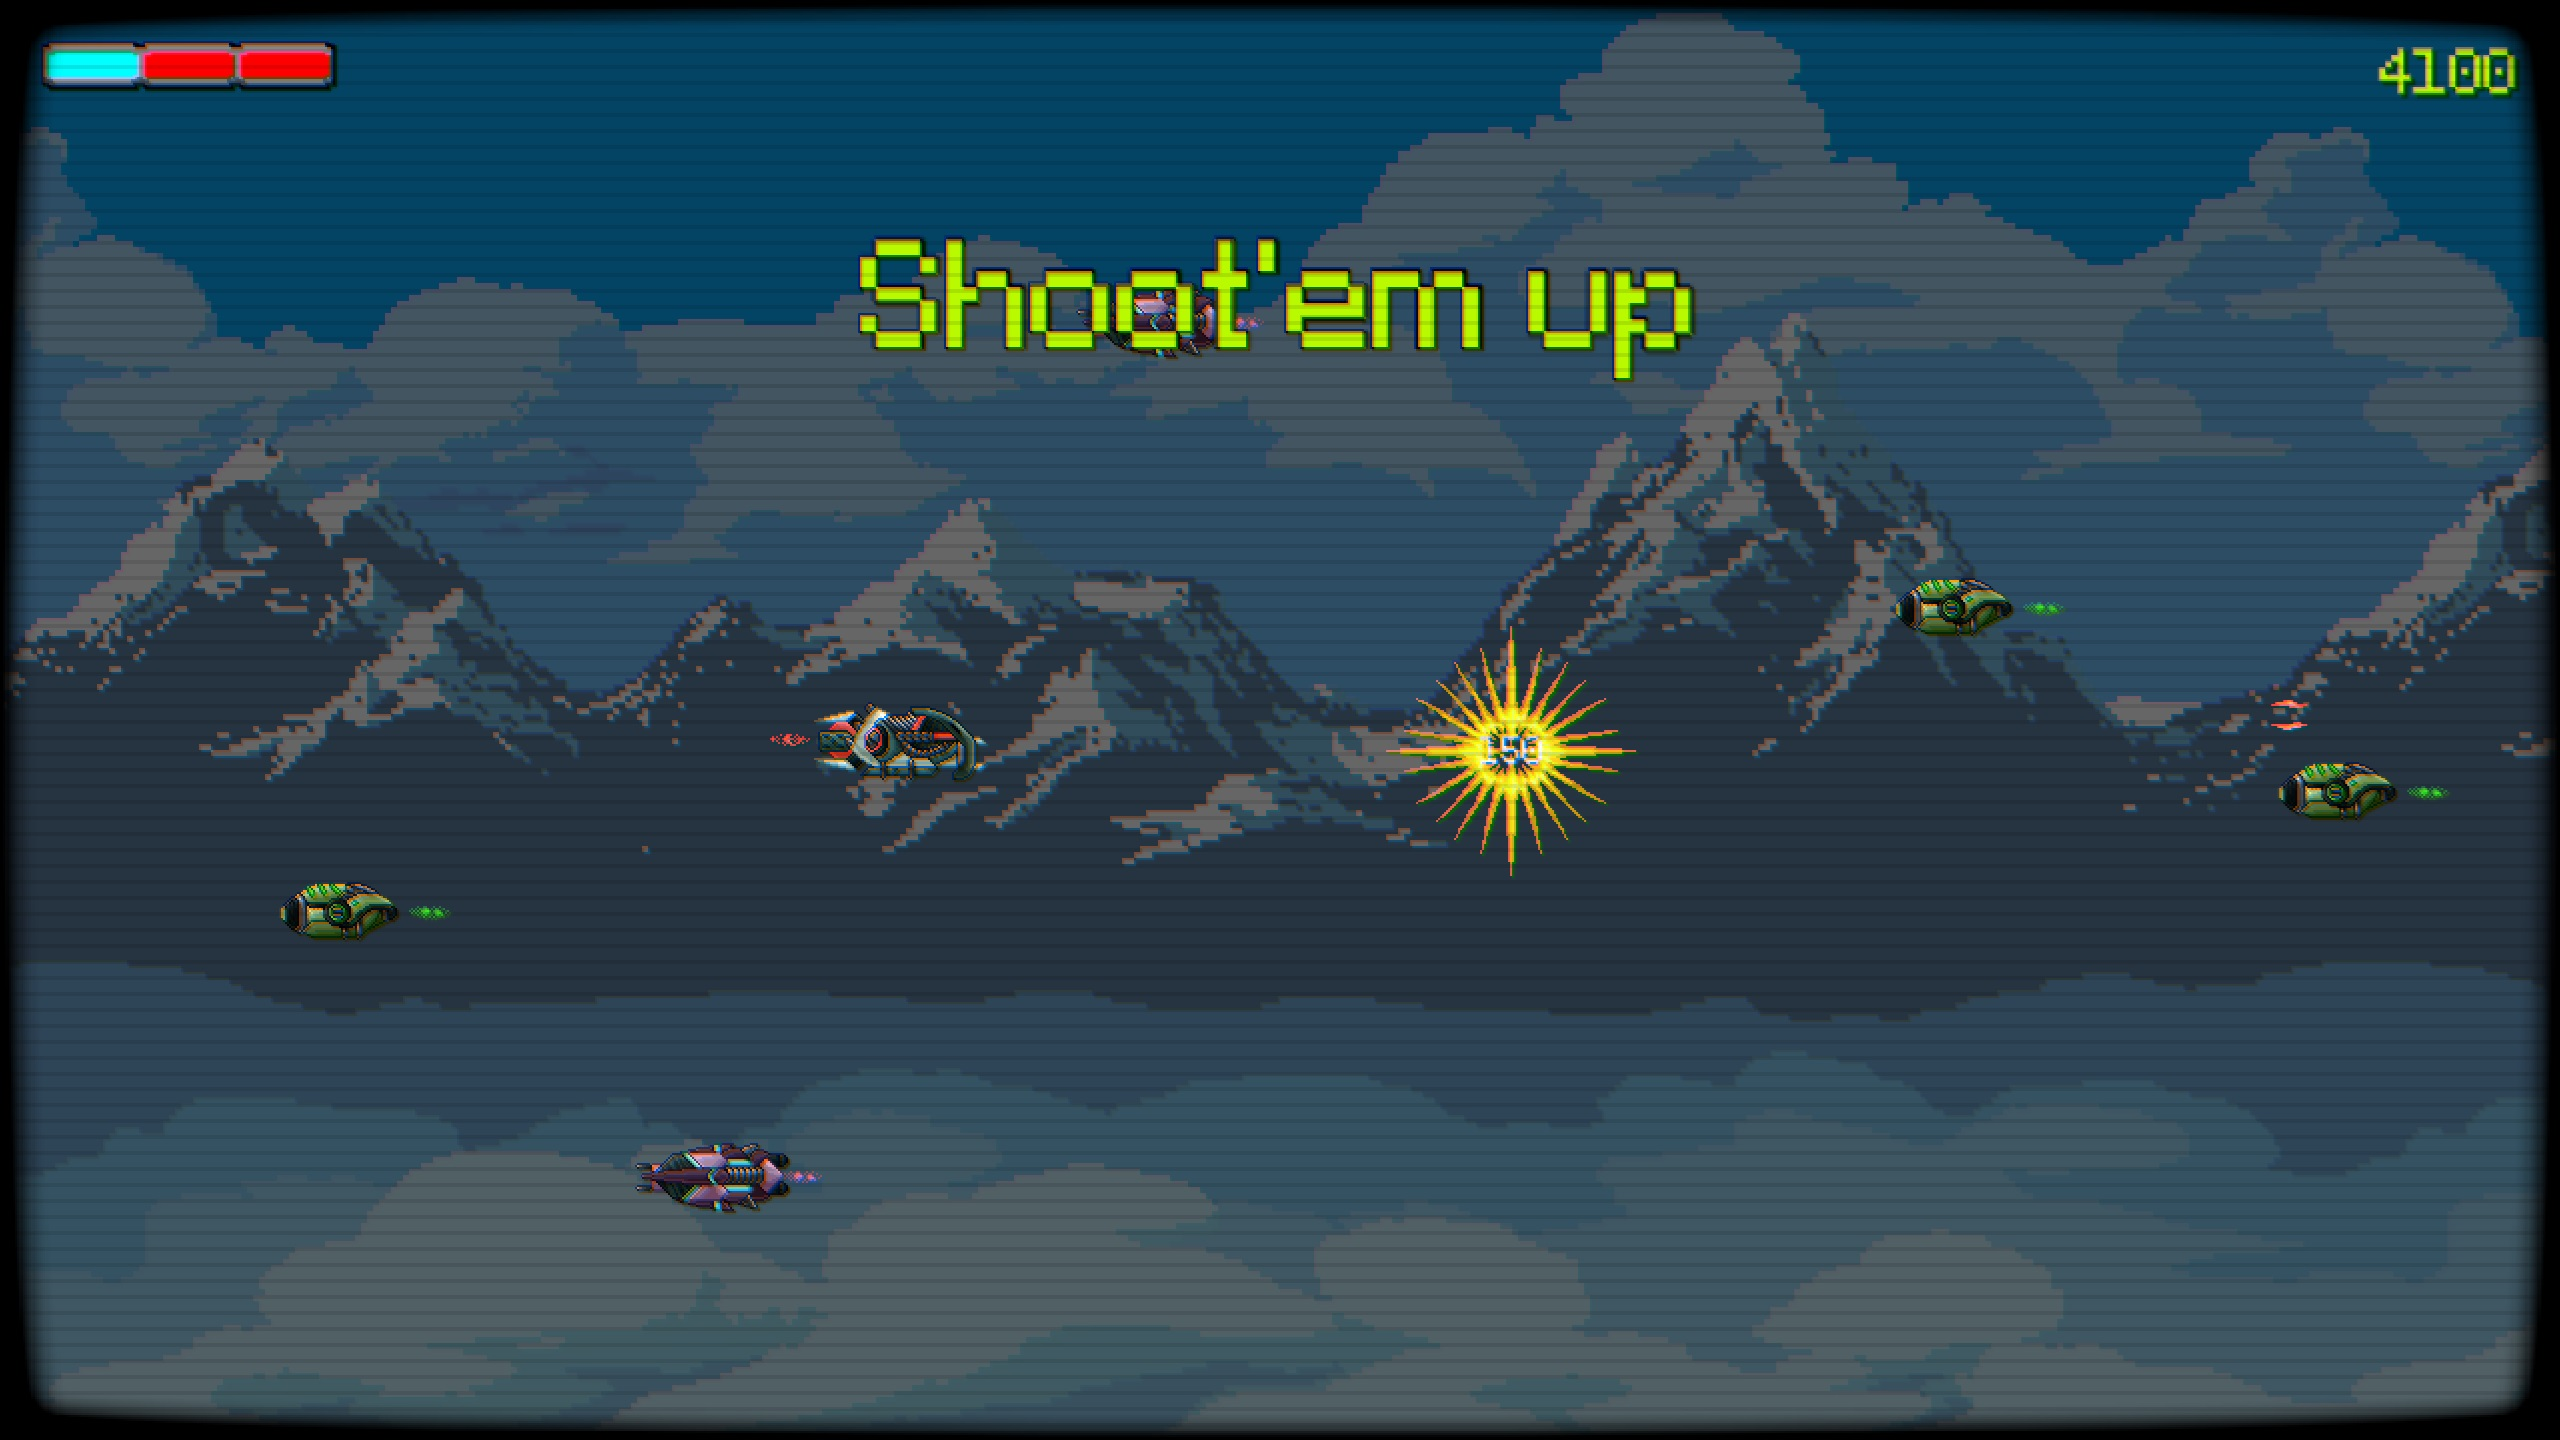
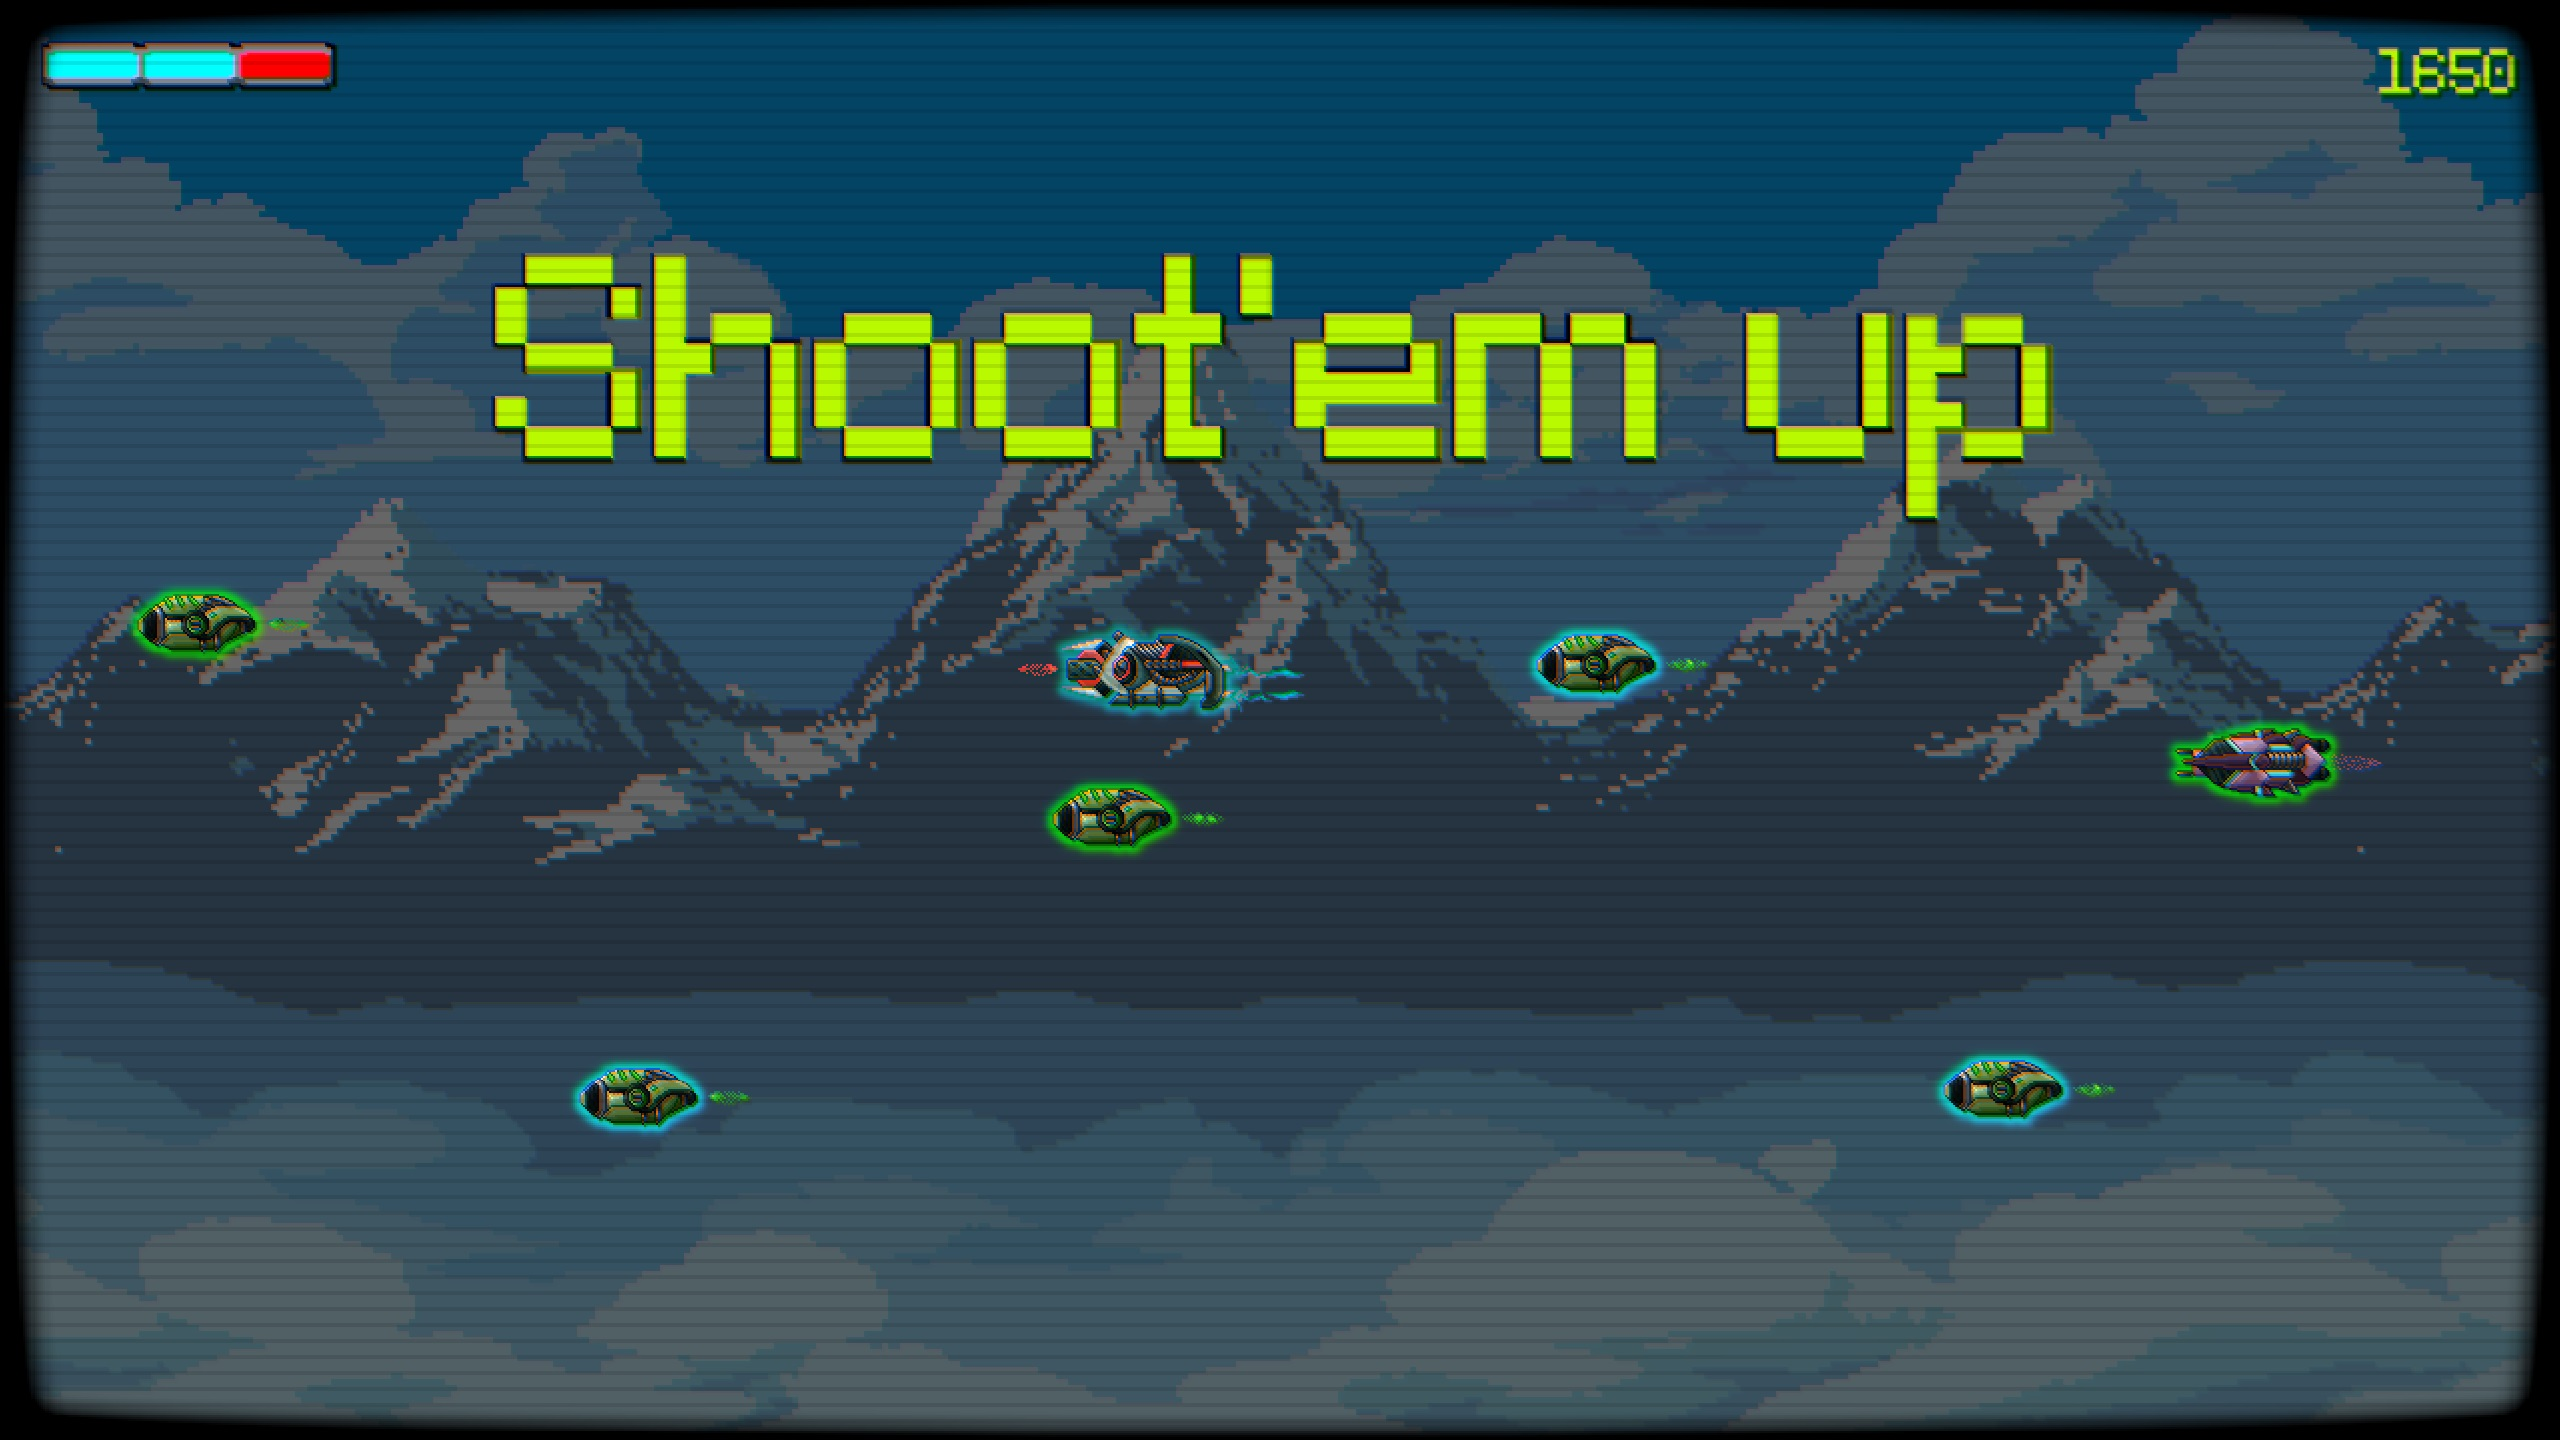
preparing release with energy, closes #28

diff --git a/README.MD b/README.MD
@@ -18,6 +18,8 @@ If you need to open a bug or enhancement, please do it [here](https://github.com
 ## Features
 
 - Player spaceship with movement and shooting.
+- Player, enemies, and shots have an energy.
+- To destroy each other the energies need to be different.
 - Different enemy spaceships.
 - CRT effect for retro look.
 - Menu with options including:
@@ -38,6 +40,7 @@ If you need to open a bug or enhancement, please do it [here](https://github.com
 - Spaceships: [Free Enemy Spaceship 2D Sprites Pixel Art](https://free-game-assets.itch.io/free-enemy-spaceship-2d-sprites-pixel-art) by [Craftpix](https://craftpix.net/)
 - Shield Bar: [UI BARS](https://guilemus.itch.io/ui-bars) by [guilemus](https://guilemus.itch.io/).
 - Player shot fire sound: [laser.wav](https://freesound.org/people/Shaun105/sounds/268168) by [Shaun105](https://freesound.org/people/Shaun105/).
+- Change energy sound: [Metal00.wav](https://freesound.org/people/jeremysykes/sounds/341254/) by [jeremysykes](https://freesound.org/people/jeremysykes/).
 - Player shot hit sound: [Hit/Hurt](https://freesound.org/people/Prof.Mudkip/sounds/398957/) by [Prof.Mudkip](https://freesound.org/people/Prof.Mudkip/).
 - Ship explosion sound: [8-Bit explosion](https://freesound.org/people/Prof.Mudkip/sounds/386862/) by [Prof.Mudkip](https://freesound.org/people/Prof.Mudkip/).
 - Game Over sound: [8-bit Game Over](https://freesound.org/people/Euphrosyyn/sounds/442127/) by [Euphrosyyn](https://freesound.org/people/Euphrosyyn/).

diff --git a/release_notes.md b/release_notes.md
@@ -1,13 +1,10 @@
 ## Release Notes
 
 ### New Features
-- **Splash Screen**: A new splash screen have been added to the game. [#20](https://github.com/juan-medina/godot-shootem-up/issues/20)
+- **Energy**: Now the player, enemies, and shots have an energy. To destroy each other the energies need to be different.
 
 ### Bug Fixes
-- Screen dropdown is empty. [#19](https://github.com/juan-medina/godot-shootem-up/issues/19)
-- Options sliders does not always update labels. [#22](https://github.com/juan-medina/godot-shootem-up/issues/22)
 
 ### Improvements
-- **CRT Effect Options** : Now the CRT effect has configurable options. [#21](https://github.com/juan-medina/godot-shootem-up/issues/21)
 
 ### Known Issues
